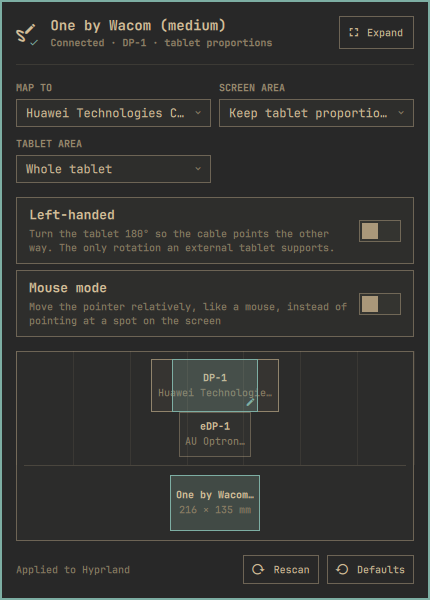
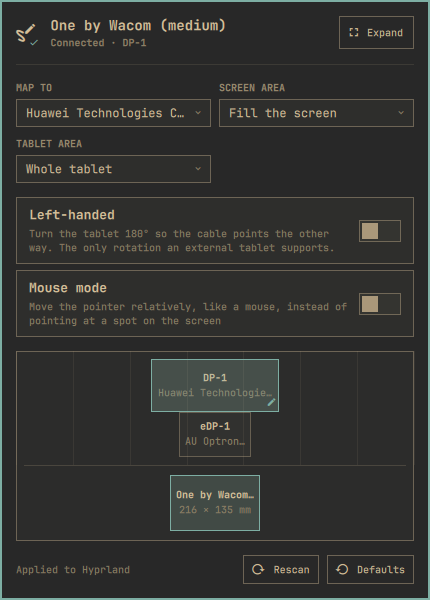
A desktop-hero marketplace preview
Replace the cramped 430x600 portrait panel crop with a landscape hero: the
expanded editor floating on the Omarchy wallpaper, the way it actually looks
in use, matching the marketplace's other cards. It is a JPEG so the
photographic wallpaper stays under the marketplace scanner's 512 KiB per-file
limit while the panel text stays crisp. README points at it; the compact and
expanded screenshots are refreshed to the current DP-1 setup.

Claude-Session: https://claude.ai/code/session_01PV8SEKa3ioSBF8ng5Y4rPM

diff --git a/README.md b/README.md
@@ -9,7 +9,7 @@
 </p>
 
 <p align="center">
-  <img src="preview.png" alt="The Drawing Tablet panel open in the Omarchy bar" width="440">
+  <img src="preview.jpg" alt="The Drawing Tablet panel open on the Omarchy desktop" width="760">
 </p>
 
 Works with any tablet libinput sees as a tablet: every Wacom, and the Huion, XP-Pen, Gaomon and Ugee models with kernel support. Pick the target screen, keep the tablet's proportions or draw a custom region, flip it for a left-handed grip (or rotate a display tablet), switch between pen and mouse mode, limit the pen's pressure range, and hide the cursor while you draw. A small background service re-applies the mapping on hotplug and after every Hyprland reload.
